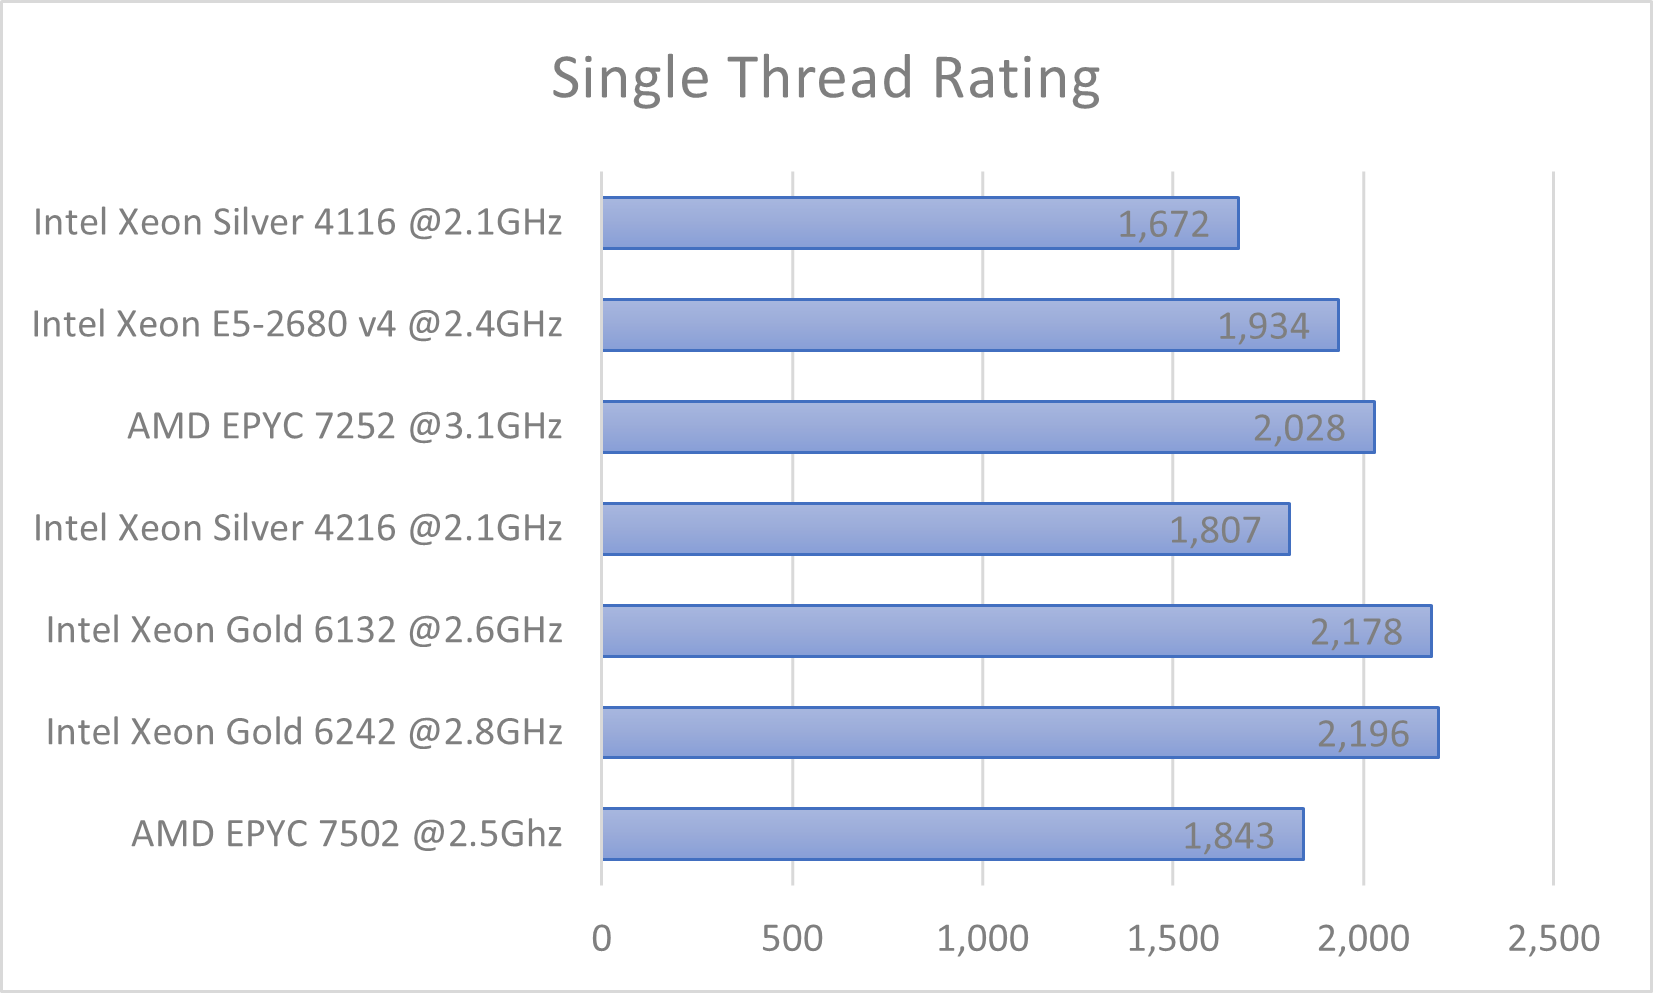
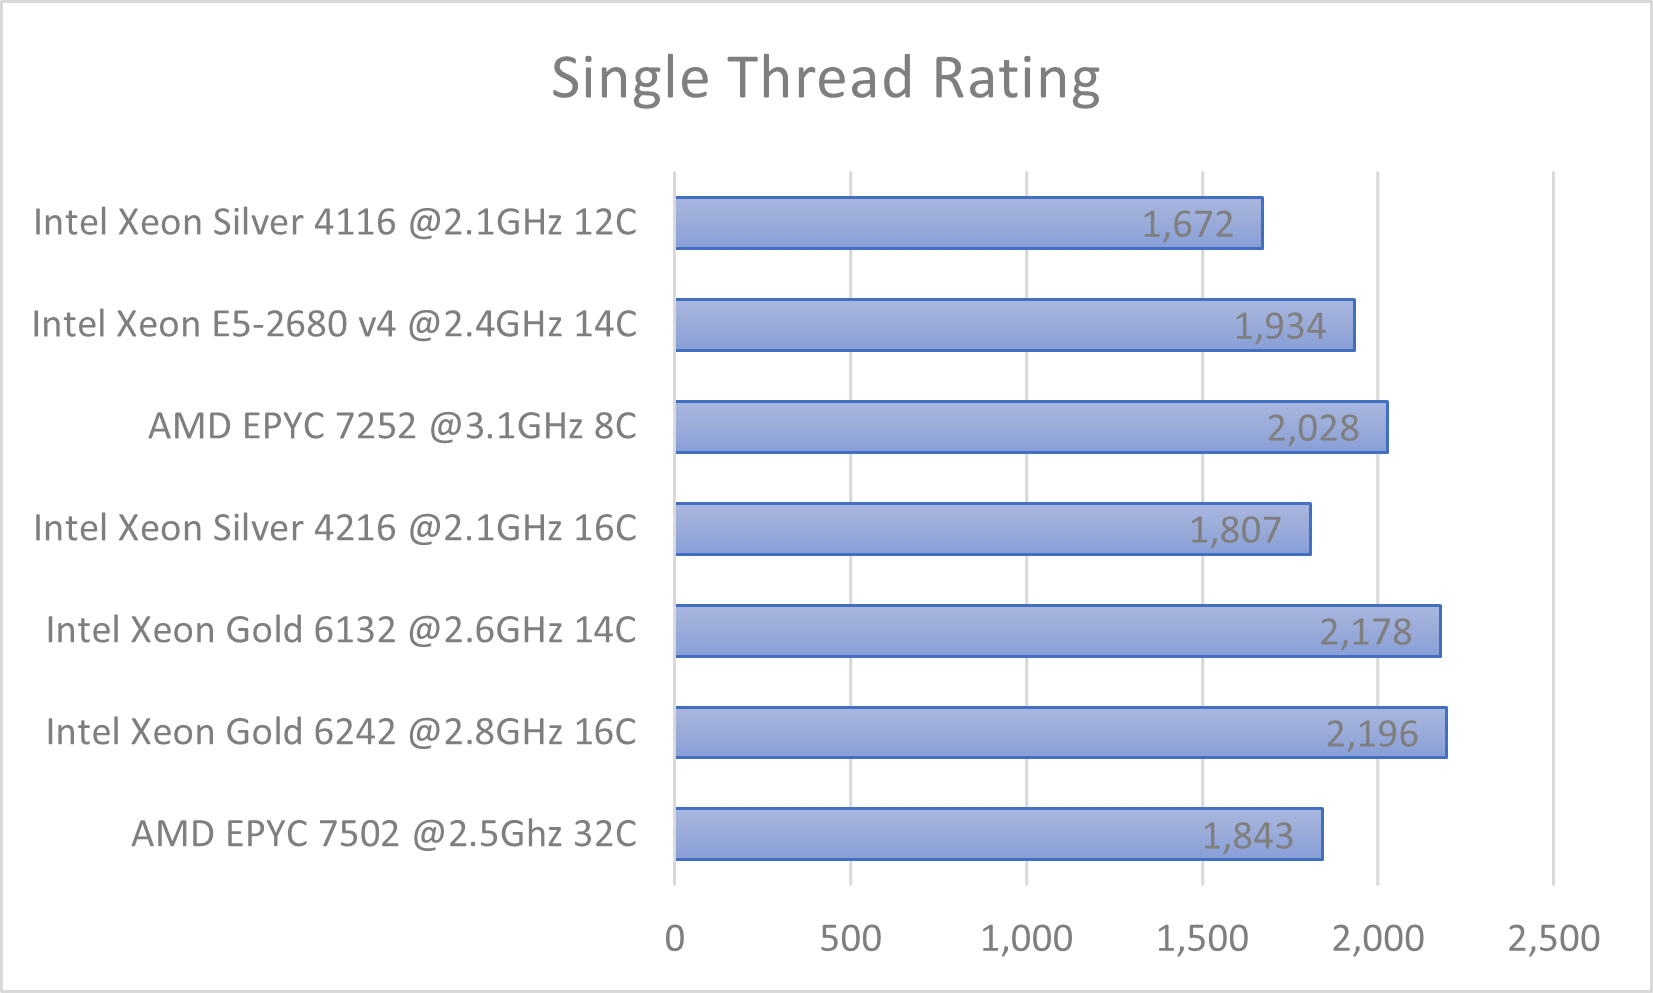
Now including CPU core counts

diff --git a/performance.rst b/performance.rst
@@ -27,17 +27,17 @@ The following graphs show the relative performance of the different CPU types av
 
 Details of which nodes use which CPUs are below:
 
-==============================  =====================
-CPU                             Node name begins with
-==============================  =====================
-Intel Xeon Silver 4116 @2.1GHz  n19-32-*
-Intel Xeon E5-2680 v4 @2.4GHz   n17-28-*
-AMD EPYC 7252 @3.1GHz           n21-16-*
-Intel Xeon Silver 4216 @2.1GHz  n19-24-*
-Intel Xeon Gold 6132 @2.6GHz    n19-28-*
-Intel Xeon Gold 6242 @2.8GHz    n19-64-*
-AMD EPYC 7502 @2.5Ghz           n21-64-*
-==============================  =====================
+==================================  =====================
+CPU                                 Node name begins with
+==================================  =====================
+Intel Xeon Silver 4116 @2.1GHz 12C  n19-32-*
+Intel Xeon E5-2680 v4 @2.4GHz 14C   n17-28-*
+AMD EPYC 7252 @3.1GHz 8C            n21-16-*
+Intel Xeon Silver 4216 @2.1GHz 16C  n19-24-*
+Intel Xeon Gold 6132 @2.6GHz 14C    n19-28-*
+Intel Xeon Gold 6242 @2.8GHz 16C    n19-64-*
+AMD EPYC 7502 @2.5Ghz 32C           n21-64-*
+==================================  =====================
 
 
 .. tip::
